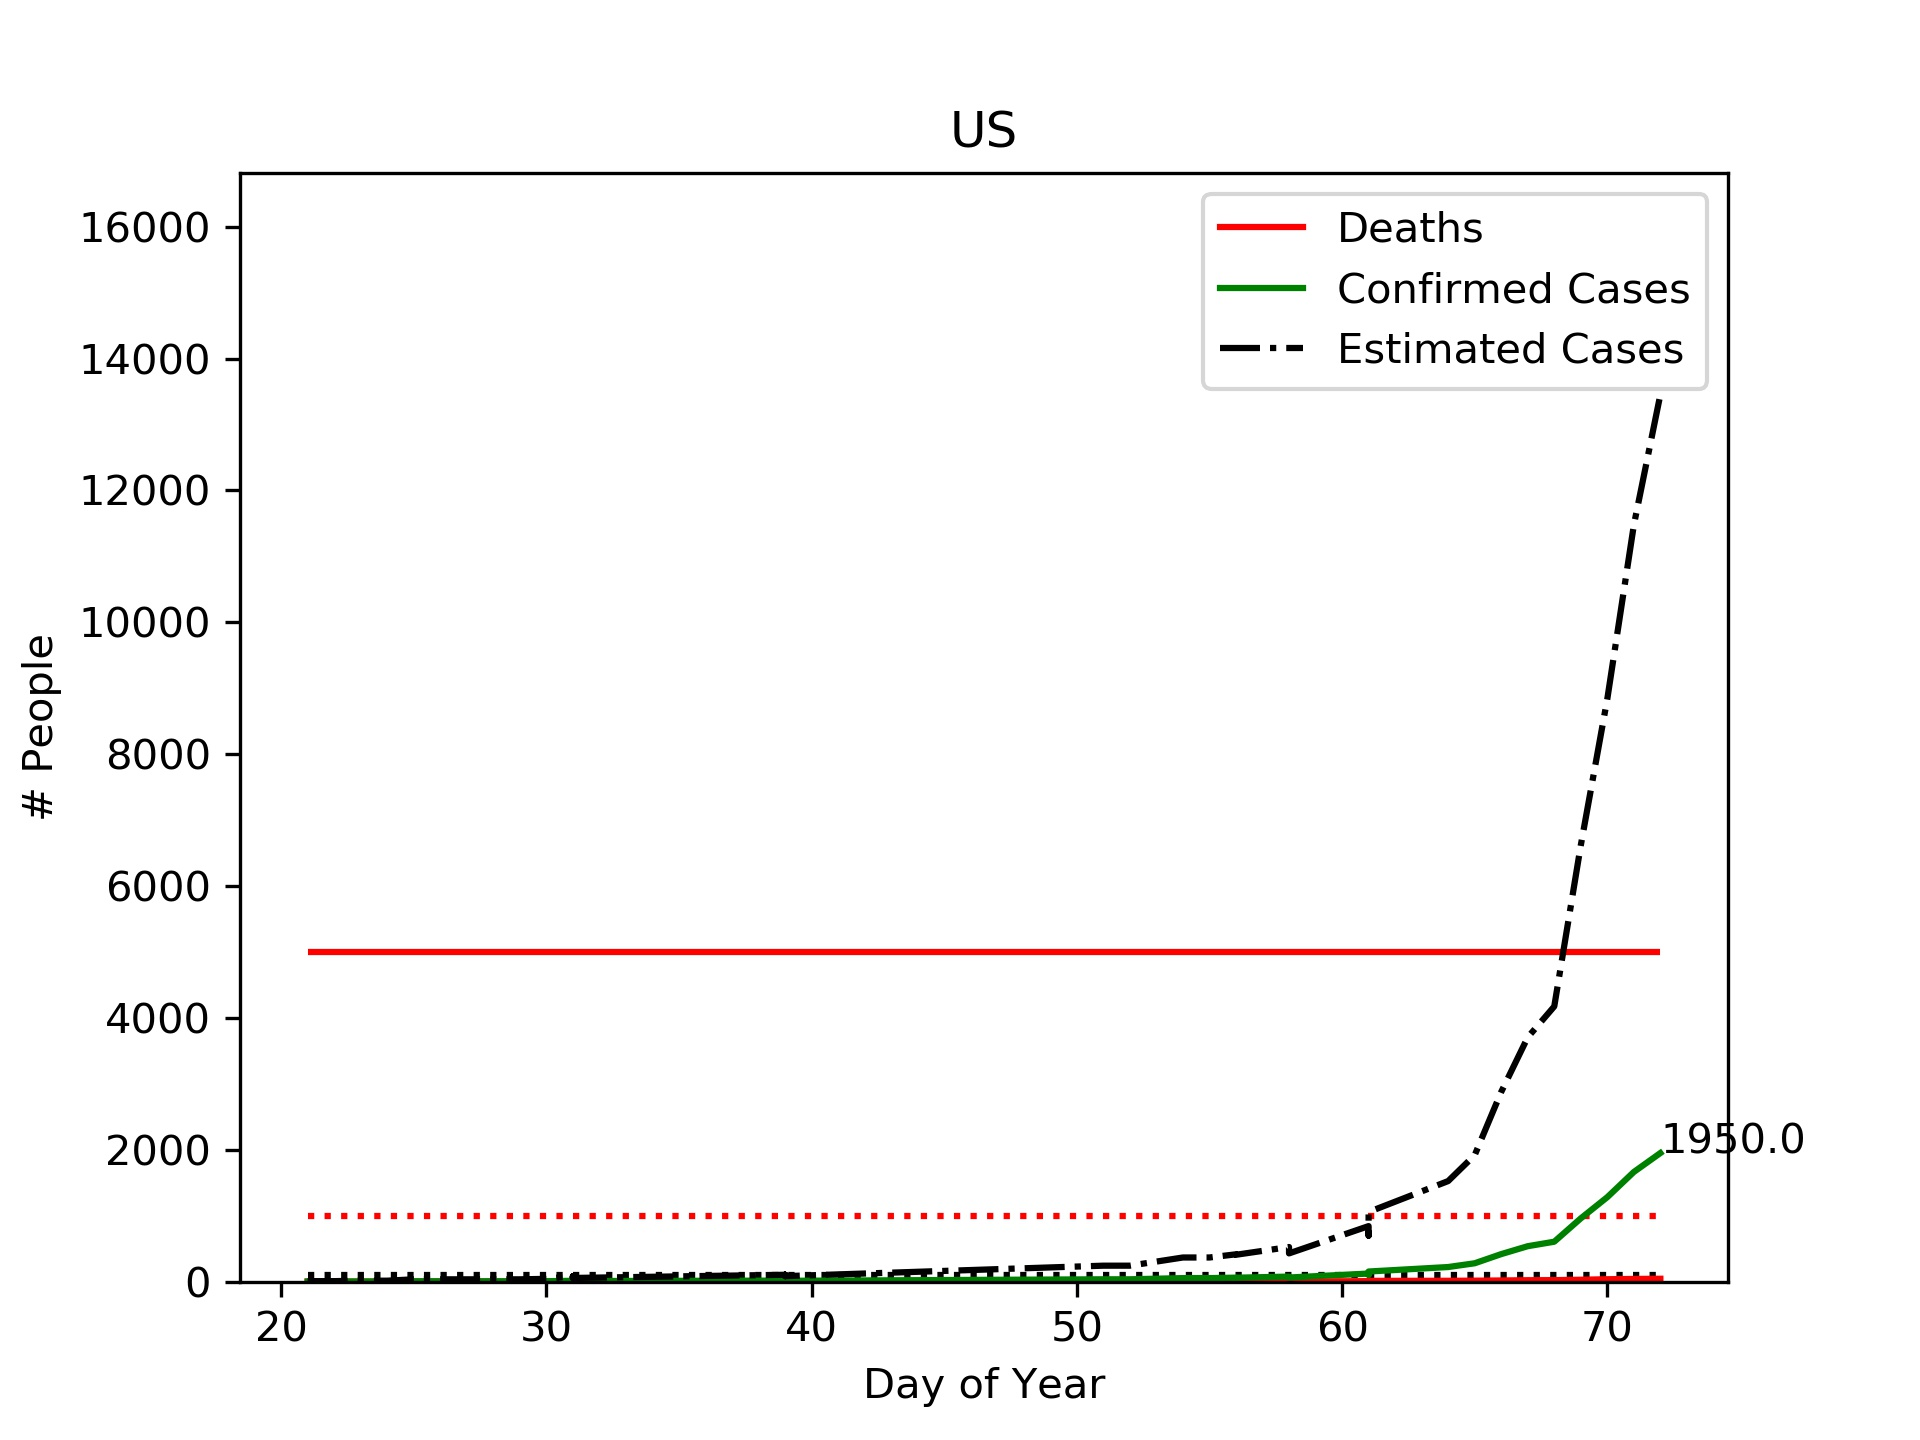
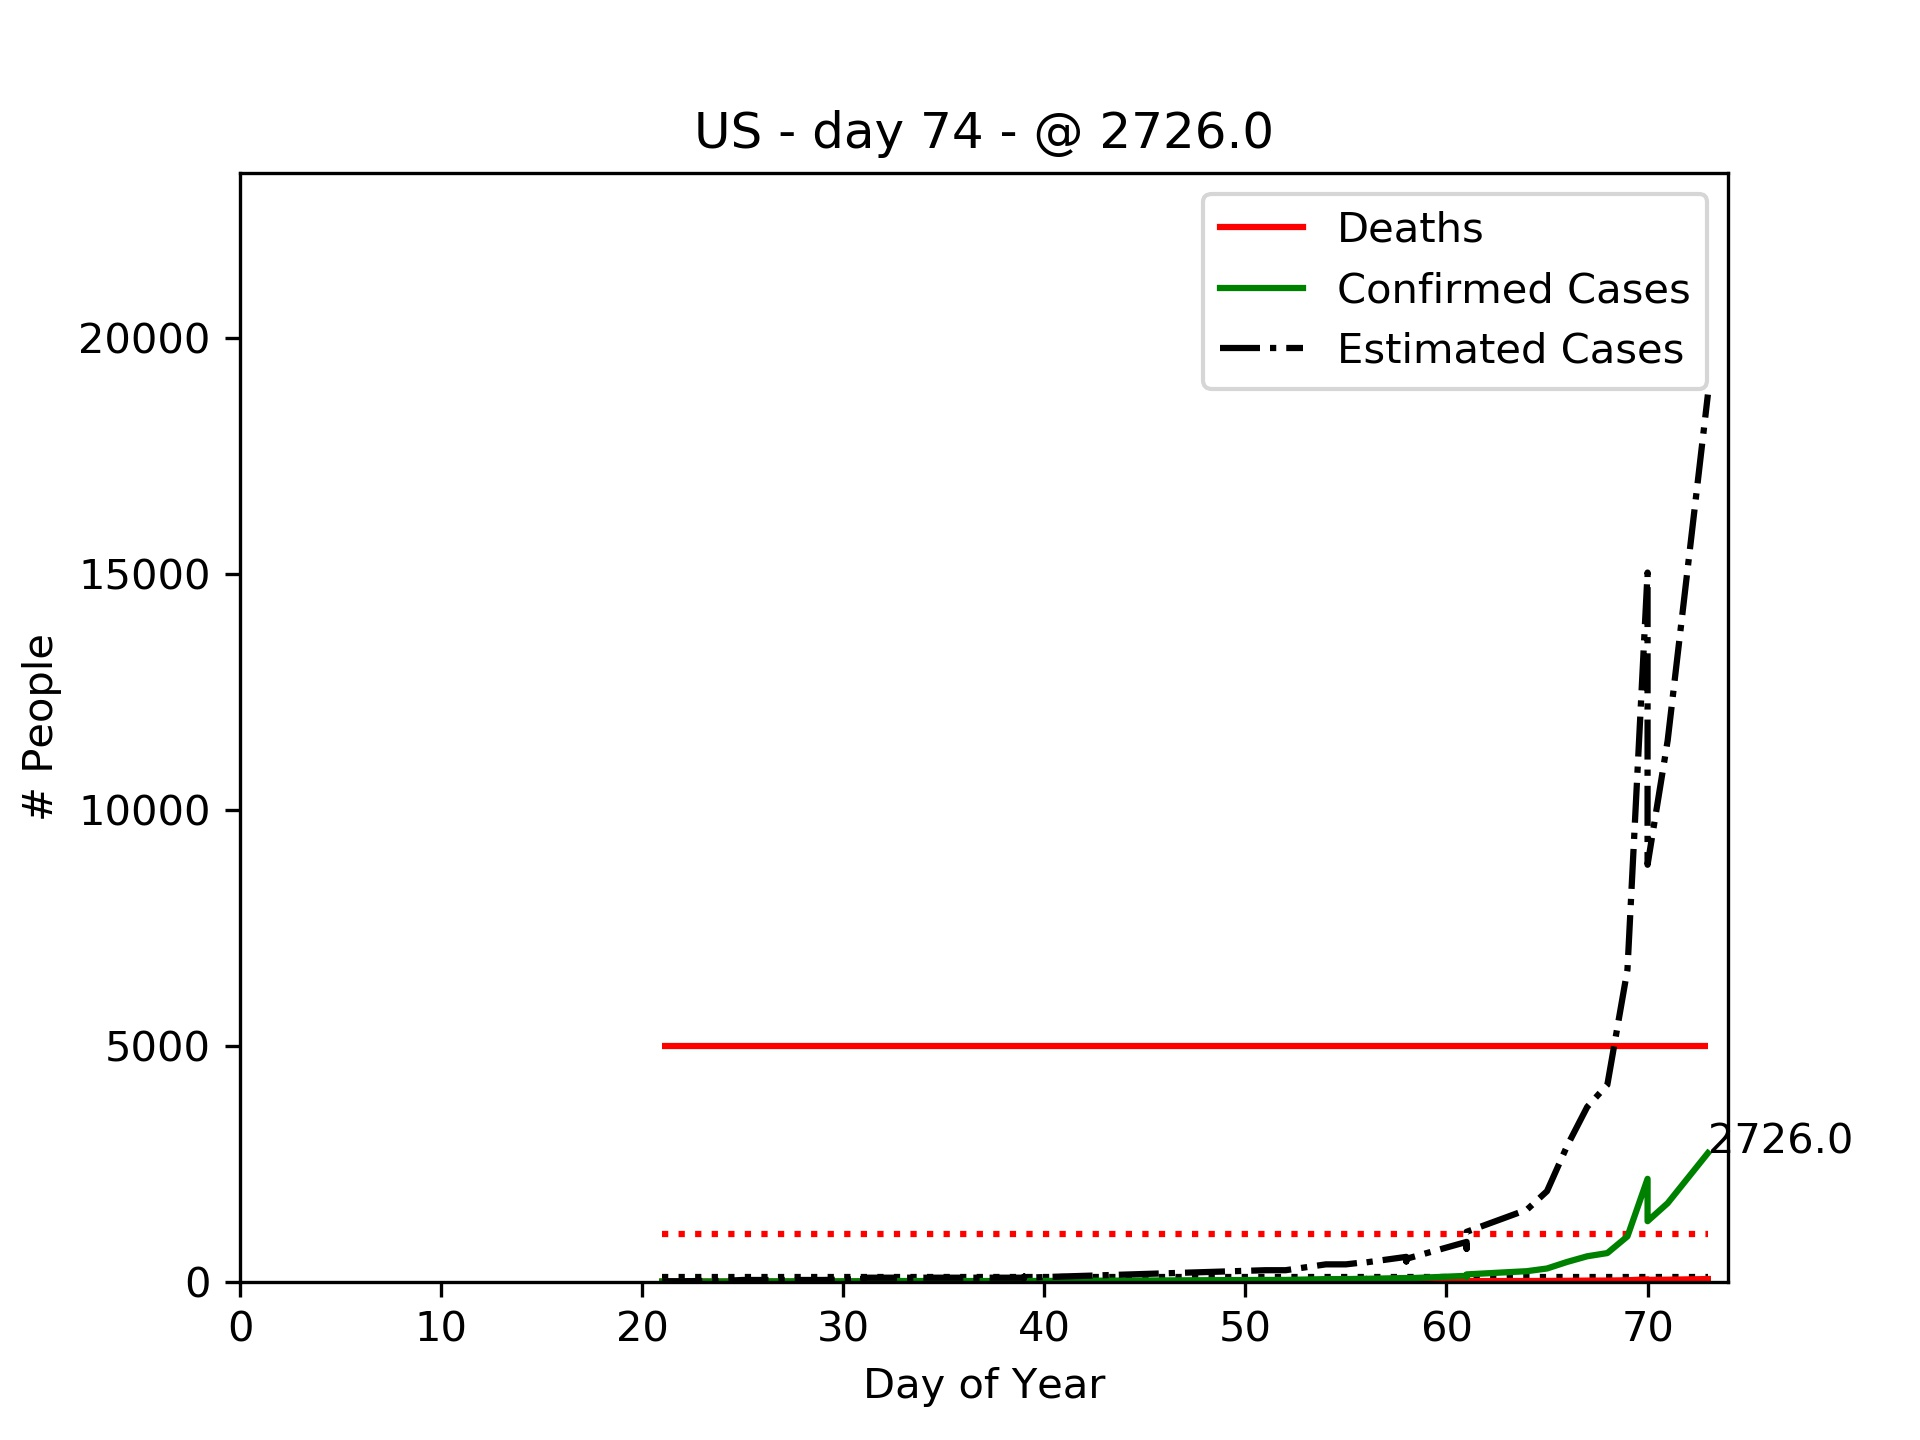
updated counts

diff --git a/plot_cov.py b/plot_cov.py
@@ -147,25 +147,35 @@ def get_timeseries(country, region=[]):
 
 	return ts
 
-def plot_data(ts):
+def plot_data(ts, location_str):
 	plt.clf()
 	plt.plot(ts['dates'], ts['deaths'], 'r-', ts['dates'], ts['confirmed'], 'g-', ts['dates'], ts['estimated'], 'k-.')
 	plt.hlines(100, ts['dates'][0], ts['dates'][len(ts['dates'])-1], 'k', 'dotted')
 	plt.hlines(1000, ts['dates'][0], ts['dates'][len(ts['dates'])-1], 'r', 'dotted')
 	plt.hlines(5000, ts['dates'][0], ts['dates'][len(ts['dates'])-1], 'r')
-	
+
+
+	# Get most recent numbers	
 	max_est = np.amax(ts['estimated'])
 	plot_max = 1.25 * max_est
 
-	max_reported = np.amax(ts['confirmed'])
-	max_date = np.amax(ts['dates'])
+	last_reported = ts['confirmed'][len(ts['confirmed'])-1]
+	last_date = np.amax(ts['dates'])
 	
-	plt.annotate(max_reported, (max_date, max_reported))
+	plt.annotate(last_reported, (last_date, last_reported))
 
+
+	# Make sure timeline is up to date
+	now = dt.datetime.now()
+	today = now.strftime("%m-%d-%Y, %H:%M:%S")
+	doy_today = datestr_to_doy(today)
+
+	plt.xlim(0, doy_today)
 	plt.ylim(0, plot_max)
 	plt.xlabel("Day of Year")
 	plt.ylabel("# People")
 	plt.legend(['Deaths', 'Confirmed Cases', 'Estimated Cases'])
+	plt.title(location_str+" - day "+str(doy_today)+" - @ "+str(last_reported))
 
 	return plt
 
@@ -174,25 +184,25 @@ if __name__ == "__main__":
 
 
 	ts_US = get_timeseries("US")
+	ts_IT = get_timeseries("Italy")
 	ts_CA = get_timeseries("US", ["California"])
 	ts_Bay = get_timeseries("US", bay_area_cities)
-	ts_NY = get_timeseries("US", ["New York County, NY"])
+	ts_NY = get_timeseries("US", ["New York"])
 
-	plt_US = plot_data(ts_US)
-	plt_US.title("US")
+	plt_US = plot_data(ts_US, "US")
 	plt_US.savefig("US.jpeg", dpi=300)
+
+	plt_IT = plot_data(ts_IT, "Italy")
+	plt_IT.savefig("Italy.jpeg", dpi=300)	
 	
-	plt_CA = plot_data(ts_CA)
-	plt_CA.title("US, CA")
+	plt_CA = plot_data(ts_CA, "US, CA")
 	plt_CA.savefig("CA.jpeg", dpi=300)
 	
-	plt_NY = plot_data(ts_NY)
-	plt_NY.title("US, NY")
+	plt_NY = plot_data(ts_NY, "US, NY")
 	plt_NY.savefig("NY.jpeg", dpi=300)
 	
 
-	plt_Bay = plot_data(ts_Bay)
-	plt_Bay.title("US, Bay Area")
+	plt_Bay = plot_data(ts_Bay, "US, Bay Area")
 	plt_Bay.savefig("Bay.jpeg", dpi=300)
 
 	#plt.subplot(311)
